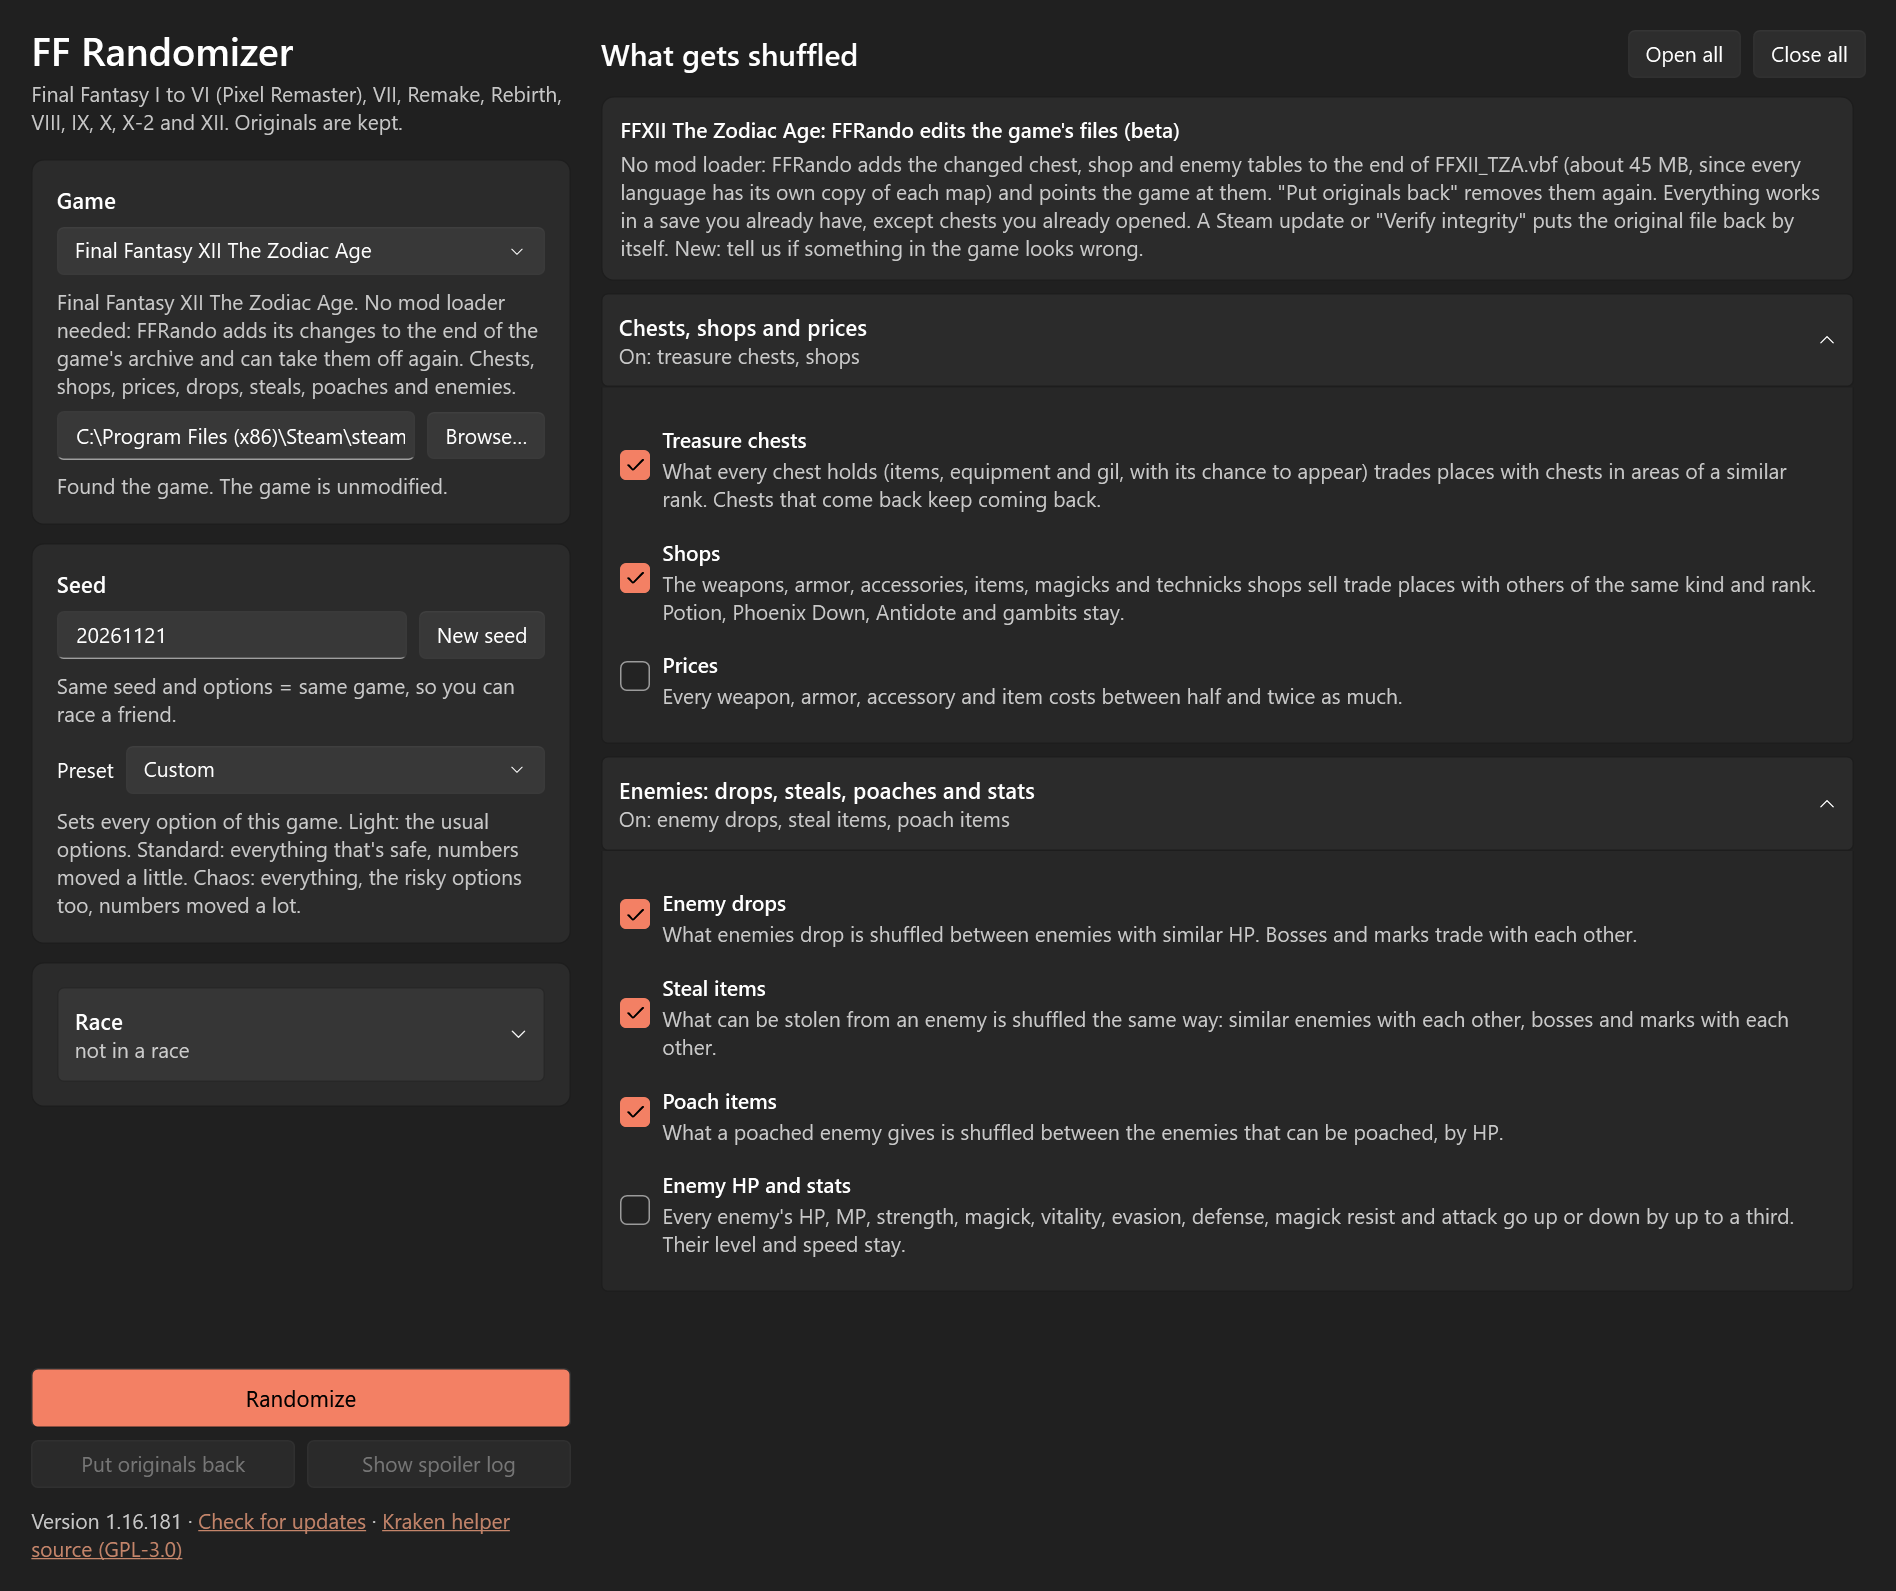
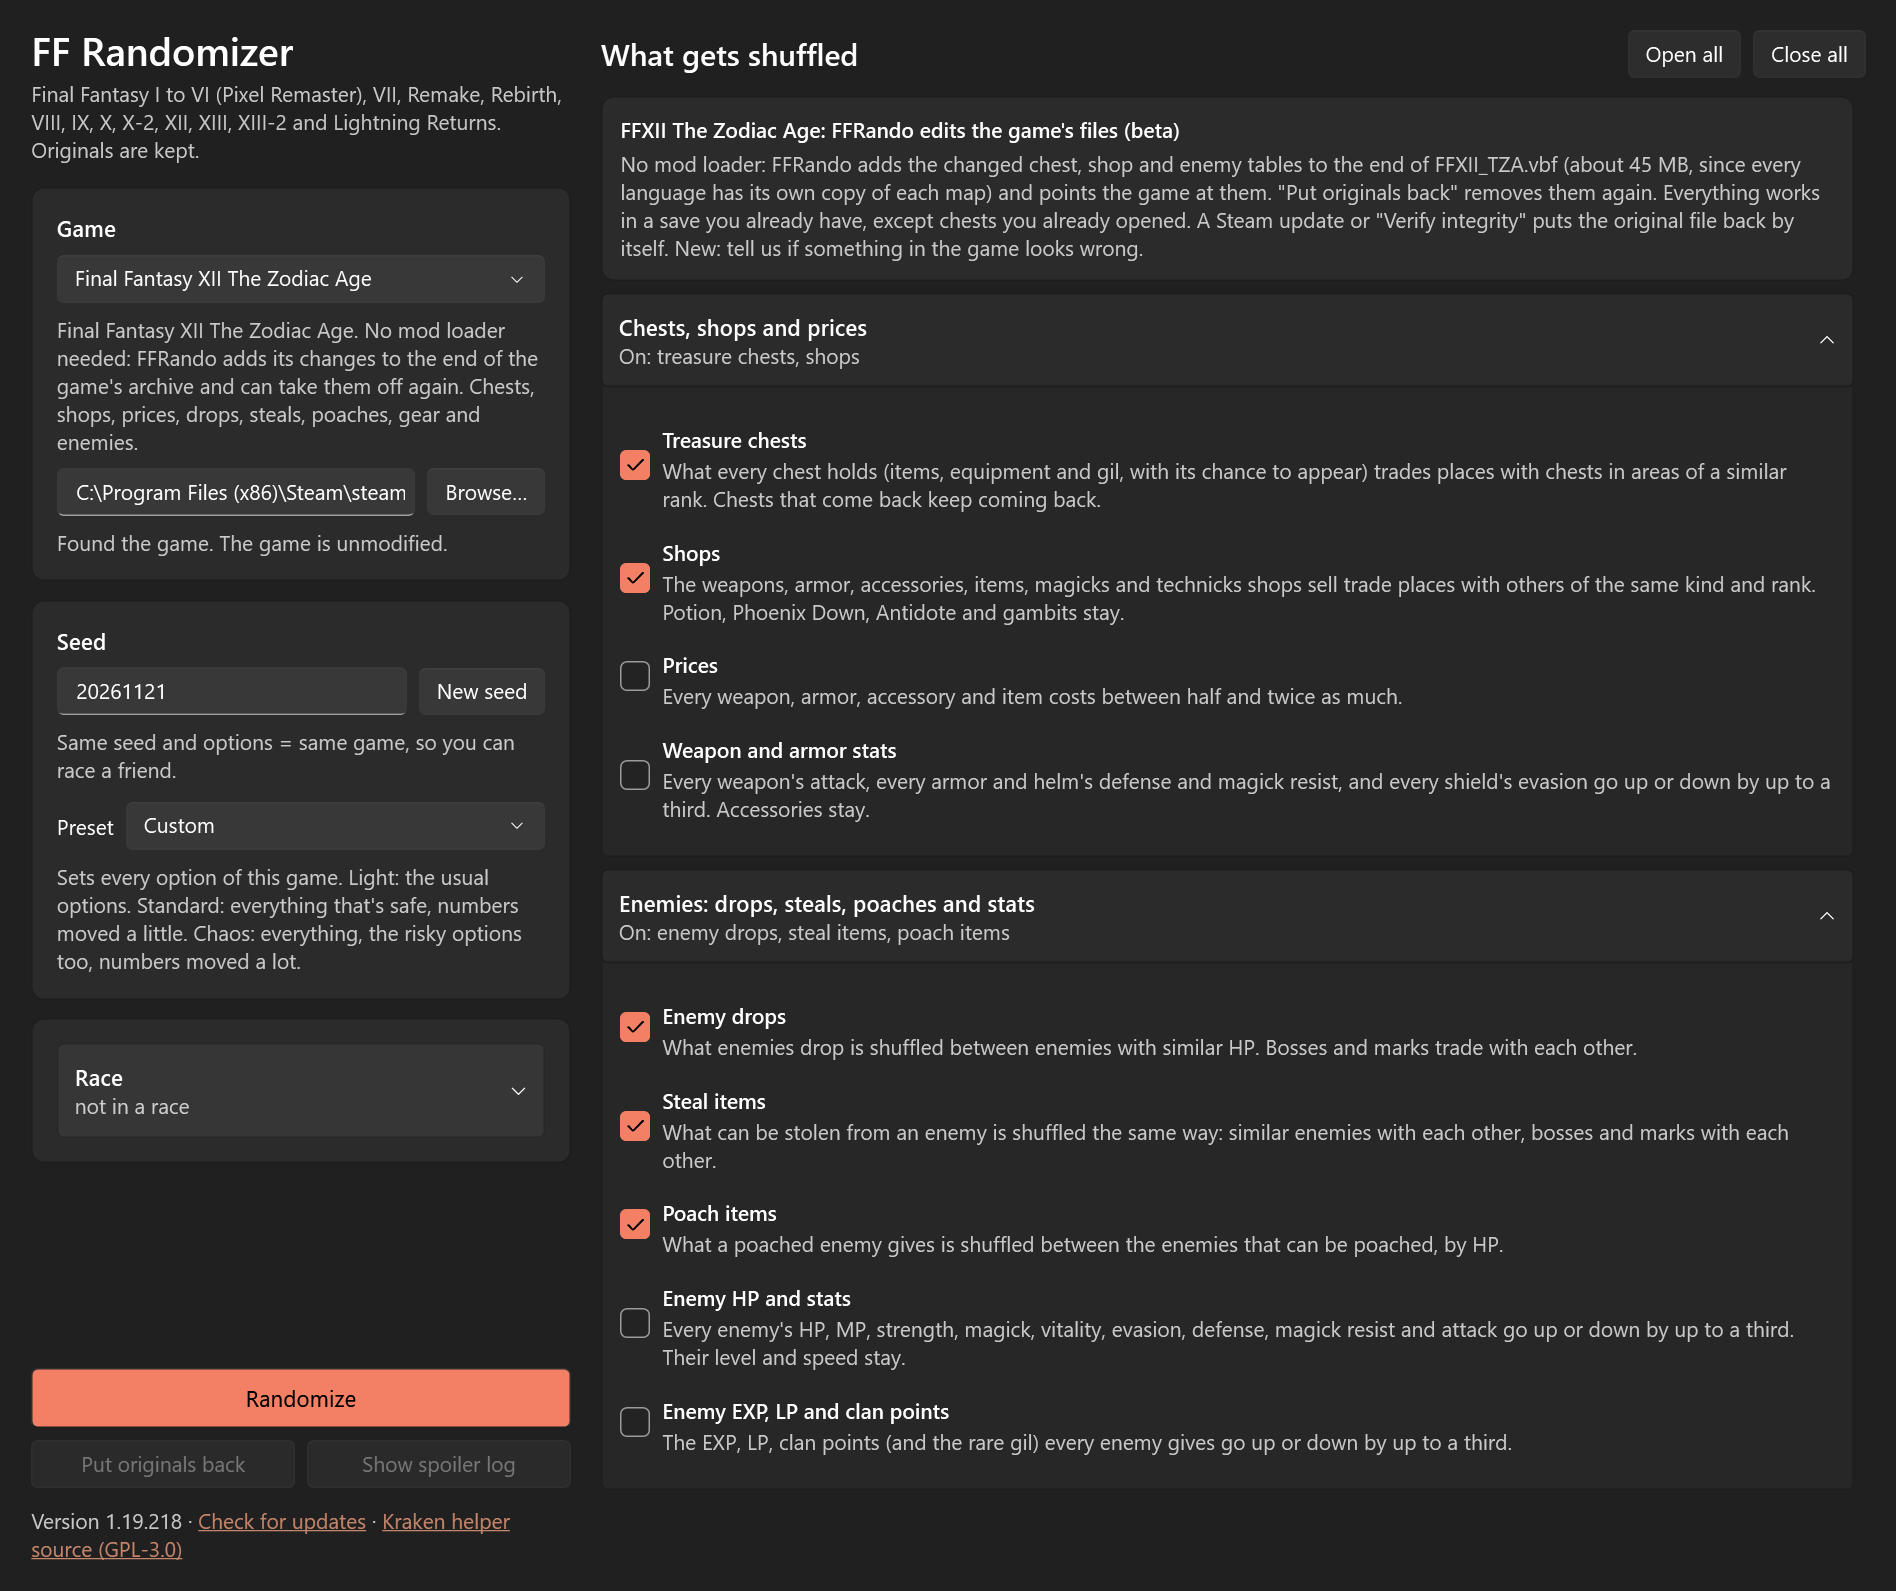
1.19.218: 22 more options for XIII, XIII-2, LR, FFX, FFX-2, FF8 and FF12

diff --git a/README.md b/README.md
@@ -122,10 +122,12 @@ Both Steam releases: **FINAL FANTASY VIII** (2013) and **FINAL FANTASY VIII Rema
 - **Draw lists**: shuffled within each level range. Guardian Forces stay where they are.
 - **Enemy cards**: the cards monsters turn into with the Card command.
 - **Enemy HP and stats** and **enemy elements** (off unless you tick them).
+- **Enemy status resistances** (off unless you tick it): each enemy's partial resistances to ailments trade places. What it's immune to, or not resistant to at all, stays.
+- **Enemy EXP and AP** (off unless you tick it): up or down by up to a third.
 
 Everything works in a save you already have. It hasn't been tried in the game yet, so please report anything that looks wrong.
 
-<p align="center"><img src="screenshots/ff8.png" width="680" alt="The Final Fantasy VIII Remastered options: items, shops, draws and cards"></p>
+<p align="center"><img src="screenshots/ff8.png" width="680" alt="The Final Fantasy VIII Remastered enemy options: draws, cards, stats, elements, status resistances, EXP and AP"></p>
 
 ### Final Fantasy IX
 
@@ -173,10 +175,12 @@ How FF9 gets randomized depends on whether **[Memoria](https://github.com/Albeor
 - **Weapon shops**: each weapon and armor becomes another one for the same character, from what the shops around that point of the story sell.
 - **Enemy drops**, **steal items** and **bribe items**: monsters trade with monsters of a similar strength, and bosses with bosses.
 - **Item prices**, **equipment drops** (the abilities and slots of the gear monsters drop) and **enemy HP and stats** (off unless you tick them).
+- **Enemy resistances** (off unless you tick it): every monster's fire, ice, lightning, water and holy weaknesses and resistances trade places, and so do its status resistances. Immunities stay. Scan's written tips may still describe the old ones.
+- **Enemy AP and gil** (off unless you tick it): up or down by up to a third, overkill AP too.
 
 Everything works in a save you already have, but chests you already opened stay opened. It hasn't been tried in the game yet, so please report anything that looks wrong.
 
-<p align="center"><img src="screenshots/ffx.png" width="680" alt="The Final Fantasy X HD Remaster options: chests, shops, drops, steals and bribes"></p>
+<p align="center"><img src="screenshots/ffx.png" width="680" alt="The Final Fantasy X HD Remaster enemy options: drops, steals, bribes, equipment drops, stats, resistances, AP and gil"></p>
 
 ### Final Fantasy X-2 (beta)
 
@@ -188,10 +192,12 @@ The same **FINAL FANTASY X/X-2 HD Remaster** install, picked as **Final Fantasy 
 - **Accessories in shops**: each accessory a shop sells becomes another one from the shops that costs about as much.
 - **Enemy drops**, **steal items** and **bribe items**: fiends trade with fiends of a similar level, oversouls with oversouls, and bosses with bosses.
 - **Prices** and **enemy HP and stats** (off unless you tick them).
+- **Enemy resistances** (off unless you tick it): every fiend's fire, ice, lightning, water and holy weaknesses and resistances trade places, and so do its status resistances. Immunities stay, and oversouls change the same way as their fiend.
+- **Enemy EXP and gil** (off unless you tick it): up or down by up to a third. Dressphere AP stays.
 
 Everything works in a save you already have, but chests you already opened stay opened. It hasn't been tried in the game yet, so please report anything that looks wrong.
 
-<p align="center"><img src="screenshots/ffx2.png" width="680" alt="The Final Fantasy X-2 HD Remaster options: chests, garment grids, shops, drops, steals, bribes and stats"></p>
+<p align="center"><img src="screenshots/ffx2.png" width="680" alt="The Final Fantasy X-2 HD Remaster fiend options: drops, steals, bribes, stats, resistances, EXP and gil"></p>
 
 ### Final Fantasy XII The Zodiac Age (beta)
 
@@ -201,36 +207,50 @@ Everything works in a save you already have, but chests you already opened stay 
 - **Shops**: the weapons, armor, accessories, items, magicks and technicks shops sell trade places with others of the same kind and rank. Potion, Phoenix Down, Antidote and gambits stay.
 - **Enemy drops**, **steal items** and **poach items**: shuffled between enemies with similar HP. Bosses and marks trade with each other, and key items stay where they are.
 - **Prices** and **enemy HP and stats** (off unless you tick them).
+- **Weapon and armor stats** (off unless you tick it): every weapon's attack, every armor and helm's defense and magick resist, and every shield's evasion go up or down by up to a third. Accessories stay.
+- **Enemy EXP, LP and clan points** (off unless you tick it): up or down by up to a third, and so does the rare gil.
 
 Everything works in a save you already have, but chests you already opened stay opened. It hasn't been tried in the game yet, so please report anything that looks wrong.
 
-<p align="center"><img src="screenshots/ff12.png" width="680" alt="The Final Fantasy XII The Zodiac Age options: chests, shops, prices, drops, steals, poaches and stats"></p>
+<p align="center"><img src="screenshots/ff12.png" width="680" alt="The Final Fantasy XII The Zodiac Age options: chests, shops, prices, gear stats, drops, steals, poaches, enemy stats and rewards"></p>
 
 ### Final Fantasy XIII (beta)
 
-**FINAL FANTASY XIII** on Steam. There's no mod loader to install. FFRando adds the changed tables to the end of the game's archives (`white_data\sys\white_imgu.win32.bin` and `white_imgc.win32.bin`, the English and Japanese voice versions, about 70 KB each) and points the game at them. **Put originals back** removes them again.
+**FINAL FANTASY XIII** on Steam. There's no mod loader to install. FFRando adds the changed tables to the end of the game's archives (`white_data\sys\white_imgu.win32.bin` and `white_imgc.win32.bin`, the English and Japanese voice versions, at most about 230 KB each) and points the game at them. **Put originals back** removes them again.
 
 - **Treasure**: what every treasure sphere and mission reward holds (items, equipment and gil) trades places with others of a similar difficulty. Key items stay.
 - **Shops**: what the shops sell changes to other items of the same kind and rank, the same way in every shop and tier, so each character's weapons stay their own. Every character's first weapons stay on sale somewhere, and Potion and Phoenix Down stay.
 - **Enemy drops**: what enemies drop (common and rare) is shuffled between enemies of a similar rank. Bosses trade with each other, and key items stay.
 - **Prices** and **enemy HP and stats** (off unless you tick them).
+- Off unless you tick them:
+  - **Enemy resistances**: the fire, ice, lightning, water, wind and earth resistances trade places, and so do the status resistances. Immunities stay.
+  - **Enemy stagger**: the stagger point and chain resistance go up or down by up to a third.
+  - **Weapon and accessory stats**: weapon strength and magic, and the HP, strength or magic bonus of accessories, go up or down by up to a third at every level.
+  - **Crystarium**: within each stage of each role, the stat and ability nodes trade places, so abilities come sooner or later (in the same order).
 
 Everything works in a save you already have, but treasure you already opened stays opened. It hasn't been tried in the game yet, so please report anything that looks wrong.
 
-<p align="center"><img src="screenshots/ff13.png" width="680" alt="The Final Fantasy XIII options: treasure, shops, prices, enemy drops and enemy stats"></p>
+<p align="center"><img src="screenshots/ff13.png" width="680" alt="The Final Fantasy XIII enemy and equipment options: drops, stats, resistances, stagger, gear stats and the Crystarium"></p>
 
 ### Final Fantasy XIII-2 (beta)
 
-**FINAL FANTASY XIII-2** on Steam. There's no mod loader to install. FFRando adds the changed tables to the end of the game's archives in `alba_data\sys` (the English and Japanese voice versions: about 36 KB each to `white_scru.win32.bin` and `white_scrc.win32.bin`, and 52 KB each to `white_imgu.win32.bin` and `white_imgc.win32.bin`) and points the game at them. **Put originals back** removes them again.
+**FINAL FANTASY XIII-2** on Steam. There's no mod loader to install. FFRando adds the changed tables to the end of the game's archives in `alba_data\sys` (the English and Japanese voice versions `white_scru.win32.bin`, `white_scrc.win32.bin`, `white_imgu.win32.bin` and `white_imgc.win32.bin`; under 1 MB in all) and points the game at them. **Put originals back** removes them again.
 
 - **Treasure**: what treasure spheres hold (items, equipment, adornments, materials and gil) trades places with others of a similar worth. Key items, fragments, artefacts, gate seals, gravitons and maps stay.
 - **Shops**: what Chocolina sells changes to other items of the same kind and rank, the same way at every stock level, so weapons stay Serah's or Noel's. Potion, Phoenix Down and materials stay.
 - **Enemy drops**: what enemies drop is shuffled between enemies of a similar HP. Bosses trade with each other, and monster crystals and gil stay.
 - **Prices** and **enemy HP and stats** (off unless you tick them).
+- Off unless you tick them:
+  - **Enemy resistances**: the fire, ice, lightning, water, wind and earth resistances trade places, and so do the debuff resistances. Immunities stay.
+  - **Enemy stagger**: how far the chain gauge must go, and the chain resistance, go up or down by up to a third.
+  - **Monster crystals and CP**: each enemy's crystal drop chance becomes half to three times what it was, and its CP goes up or down by up to a third.
+  - **Weapon and accessory stats**: weapons split their strength and magic differently (same total), and accessories cost up to a fifth more or less CL.
+  - **Equipment passives**: weapon passives trade places (Serah's among Serah's, Noel's among Noel's), and so do accessories' extra passives.
+  - **Crystarium**: each role learns its abilities at other levels, in the same order.
 
 A save you already have should pick up the changes, but treasure you already opened stays opened. It hasn't been tried in the game yet, so please report anything that looks wrong.
 
-<p align="center"><img src="screenshots/ff132.png" width="680" alt="The Final Fantasy XIII-2 options: treasure, shops, prices, enemy drops and enemy stats"></p>
+<p align="center"><img src="screenshots/ff132.png" width="680" alt="The Final Fantasy XIII-2 enemy and equipment options: drops, stats, resistances, stagger, crystals, gear, passives and the Crystarium"></p>
 
 ### Lightning Returns: Final Fantasy XIII (beta)
 
@@ -240,10 +260,15 @@ A save you already have should pick up the changes, but treasure you already ope
 - **Shops**: what the shops sell changes to other items of the same kind and rank, the same way in every shop and on every day. Potion, Phoenix Down, materials and Libra notes stay.
 - **Enemy drops**: what enemies drop (materials, abilities and the special drops) is shuffled between enemies of a similar HP. Bosses trade with each other, and key items stay.
 - **Prices** and **enemy HP and stats** (off unless you tick them).
+- Off unless you tick them:
+  - **Enemy resistances**: the fire, ice, lightning and wind resistances trade places, and so do the debuff resistances. Immunities stay.
+  - **Enemy stagger**: the stagger point and stagger resistance go up or down by up to a third.
+  - **Weapon and shield stats**: strength, magic, HP and guard go up or down by up to a third, and so do the blacksmith's upgrade caps.
+  - **Garb passives**: the passive bonuses of garbs trade places between garbs. Their abilities and ATB stay.
 
 A save you already have should pick up the changes, but treasure you already opened stays opened. It hasn't been tried in the game yet, so please report anything that looks wrong.
 
-<p align="center"><img src="screenshots/lr.png" width="680" alt="The Lightning Returns options: treasure, shops, prices, enemy drops and enemy stats"></p>
+<p align="center"><img src="screenshots/lr.png" width="680" alt="The Lightning Returns enemy and equipment options: drops, stats, resistances, stagger, weapon and shield stats and garb passives"></p>
 
 ### Races
 
@@ -282,12 +307,12 @@ If something breaks, press **Put originals back**, and please report it on the [
 
 FFRando.exe contains **FFRando.Kraken**, a small separate program that decompresses Remake's and Rebirth's game files. It is based on [ooz](https://github.com/powzix/ooz) and licensed under the **GNU GPL v3**. Its full source and the license are in [`kraken-helper/`](kraken-helper). The app unpacks it to `%LOCALAPPDATA%\FFRando\helper` and runs it in the background while it reads the game.
 
-The FFXII chest addresses, area and item ranks, shop names and boss list come from Bartz24's [FF12 Open World Randomizer](https://github.com/Bartz24/FFModdingWPF) (MIT License, Copyright (c) 2023 Bartz24).
+The FFXII chest addresses, area and item ranks, shop names, boss list and equipment and enemy layouts come from Bartz24's [FF12 Open World Randomizer](https://github.com/Bartz24/FFModdingWPF) (MIT License, Copyright (c) 2023 Bartz24).
 
-The FFXIII treasure difficulties and locations, item and enemy ranks, shop names and boss list come from Bartz24's [FF13 Randomizer](https://github.com/Bartz24/FFModdingWPF) (MIT License, Copyright (c) 2023 Bartz24).
+The FFXIII treasure difficulties and locations, item and enemy ranks, shop names, boss list and ability names come from Bartz24's [FF13 Randomizer](https://github.com/Bartz24/FFModdingWPF) (MIT License, Copyright (c) 2023 Bartz24).
 
 The FFXIII-2 treasure traits and locations, item kinds, enemy names and boss list come from Bartz24's [FF13-2 Randomizer](https://github.com/Bartz24/FFModdingWPF) (MIT License, Copyright (c) 2023 Bartz24). FFXIII-2 scrambles its file lists the same way as Lightning Returns (see below).
 
-The Lightning Returns treasure difficulties and locations, item kinds and ranks, enemy names, shop names and boss list come from Bartz24's [LR Randomizer](https://github.com/Bartz24/FFModdingWPF) (MIT License, Copyright (c) 2023 Bartz24). How Lightning Returns scrambles its file lists was learned from Surihix's [WhiteBinTools](https://github.com/Surihix/WhiteBinTools) (GPL-3.0); FFRando has its own code for it.
+The Lightning Returns treasure difficulties and locations, item kinds and ranks, enemy names, shop names and boss list come from Bartz24's [LR Randomizer](https://github.com/Bartz24/FFModdingWPF) (MIT License, Copyright (c) 2023 Bartz24). How Lightning Returns scrambles its file lists was learned from Surihix's [WhiteBinTools](https://github.com/Surihix/WhiteBinTools) (GPL-3.0); FFRando has its own code for it. The Lightning Returns enemy and equipment fields were checked against the LR Research Team wiki.
 
 FINAL FANTASY is a registered trademark of Square Enix Holdings Co., Ltd. This is a fan project and isn't affiliated with or endorsed by Square Enix. It ships no game data: it only changes the copy of the game you own.
